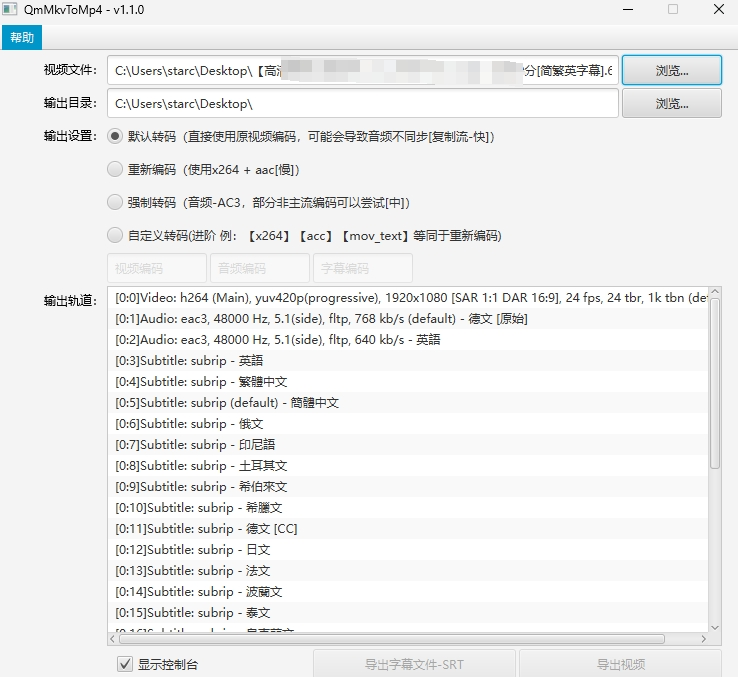
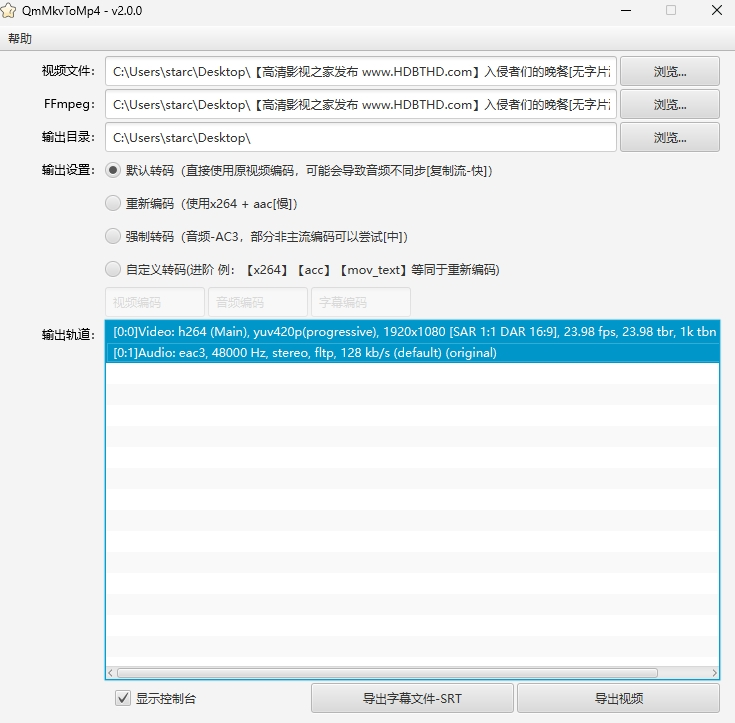
视频可拖动到列表上

Changed region(s): [[0.0, 0.0, 0.9878, 0.9926], [0.9578, 0.0, 0.9878, 0.031]]

diff --git a/src/main/java/com/starmcc/mkv/to/mp4/controller/MainController.java b/src/main/java/com/starmcc/mkv/to/mp4/controller/MainController.java
@@ -111,28 +111,32 @@ public class MainController implements Initializable {
 
         // 绑定事件
         // 设置拖放事件处理器
-        inputVideoPathText.setOnDragOver(event -> {
-            // 允许拖放复制操作
-            event.acceptTransferModes(TransferMode.COPY);
-            event.consume();
-        });
+        inputVideoPathText.setOnDragOver(this::allowDrag);
+        outputList.setOnDragOver(this::allowDrag);
+        inputVideoPathText.setOnDragDropped(this::ondragDropped);
+        outputList.setOnDragDropped(this::ondragDropped);
 
-        inputVideoPathText.setOnDragDropped((DragEvent event) -> {
-            // 获取拖放板
-            Dragboard dragboard = event.getDragboard();
+    }
 
-            // 检查是否包含文件
-            if (dragboard.hasFiles()) {
-                // 获取拖放的文件列表
-                List<File> files = dragboard.getFiles();
-                if (!files.isEmpty()) {
-                    readVideoInfo(files.get(0));
-                }
+    private void allowDrag(DragEvent event) {
+        // 允许拖放复制操作
+        event.acceptTransferModes(TransferMode.LINK);
+        event.consume();
+    }
+
+    private void ondragDropped(DragEvent event) {
+        // 获取拖放板
+        Dragboard dragboard = event.getDragboard();
+        // 检查是否包含文件
+        if (dragboard.hasFiles()) {
+            // 获取拖放的文件列表
+            List<File> files = dragboard.getFiles();
+            if (!files.isEmpty()) {
+                readVideoInfo(files.get(0));
             }
-            event.setDropCompleted(true);
-            event.consume();
-        });
-
+        }
+        event.setDropCompleted(true);
+        event.consume();
     }
 
     private boolean exportRefreshStatus() {

diff --git a/README.md b/README.md
@@ -31,31 +31,36 @@
 
 保留原有音轨，字幕单独输出
 
-![](./desc.png)
+![主界面](./desc.png)
 
-## 下载
+## 下载/使用
 
 [**Releases-点击进入下载页面**](https://github.com/starmcc/StarmccMkvToMp4/releases)
 
-请下载带有【**windows.zip**】的压缩包，解压后即可食用。
+请下载带有【**StarmccMkvToMp4.zip**】的压缩包。
 
-如果您要更新，只需要替换【`StarmccMkvToMp4.exe`】即可。
+本工具需自备`ffmpeg`第三方支持，提供`ffmpeg.exe`即可工作。
+
+解压后，在[**bin**]文件夹中找到`start.bat`并启动工具。
 
 ## 目录结构
 
 ```
-- bin
-  - ffmpeg.exe
-- jre
-  - JRE运行环境
-- libs
-  - 依赖包
-- LICENSE
-- StarmccMkvToMp4.exe
+- bin（环境依赖）
+  - start.bat（启动程序）
+- conf（环境依赖）
+- legal（环境依赖）
+- lib（第三方库依赖）
 ```
+
+## 注意事项
+
+1. 程序启动默认会读取`bin`目录中是否存在`ffmpeg.exe`，如不存在则读取用户配置的路径。
+2. 建议直接使用默认转码（即复制流），其他方式仅做成功测试。
+3. 导出字幕只能选择一个字幕流。
 
 ## 构建-依赖
 
-- JDK - 1.8.0_391
-- javapackager
+- JDK17
+- jlink
 - ffmpeg.exe
